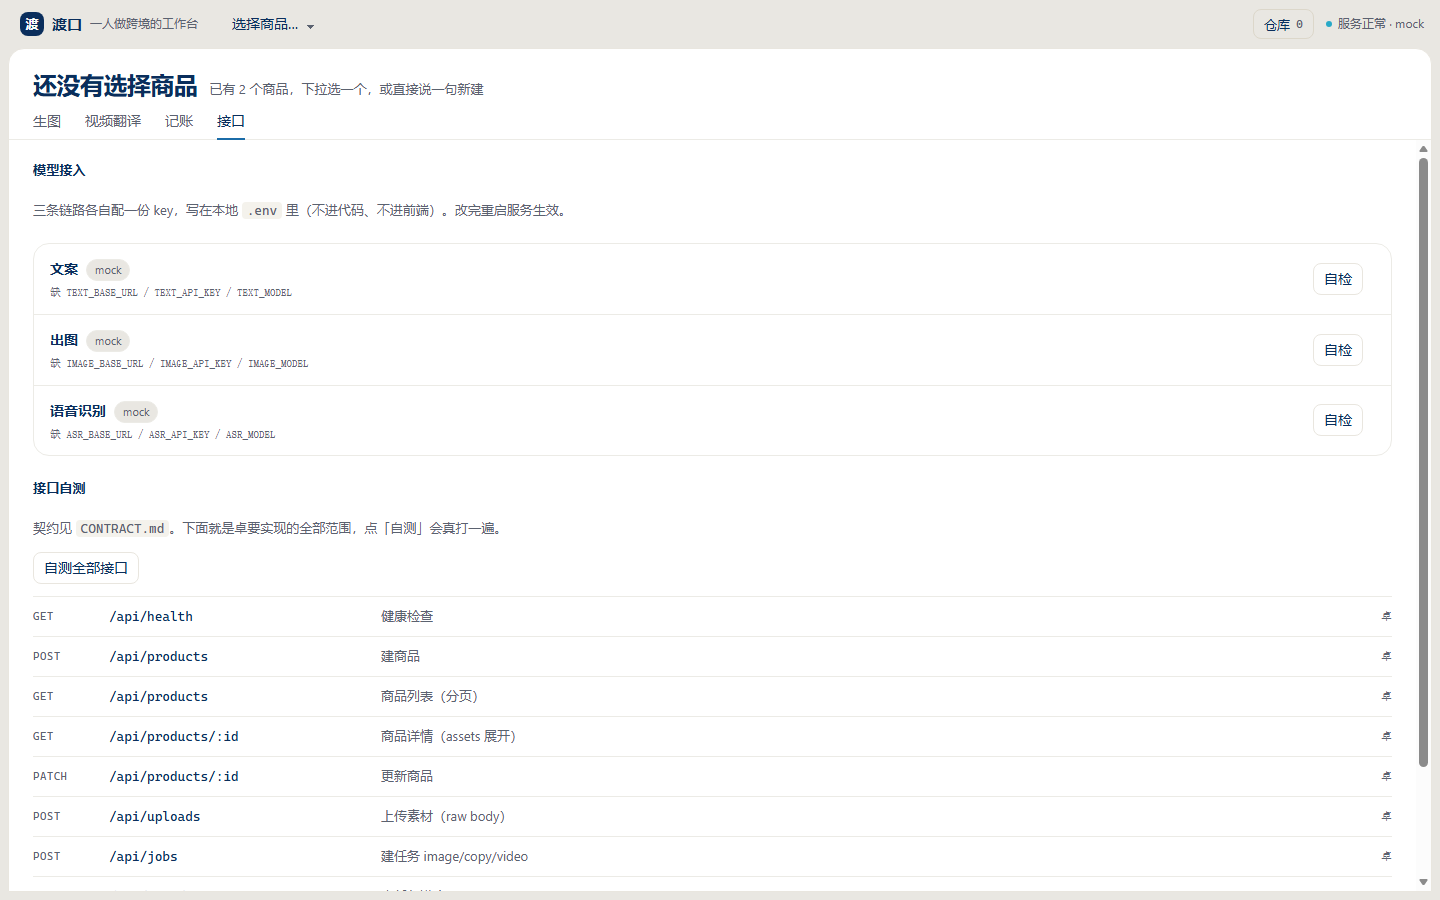
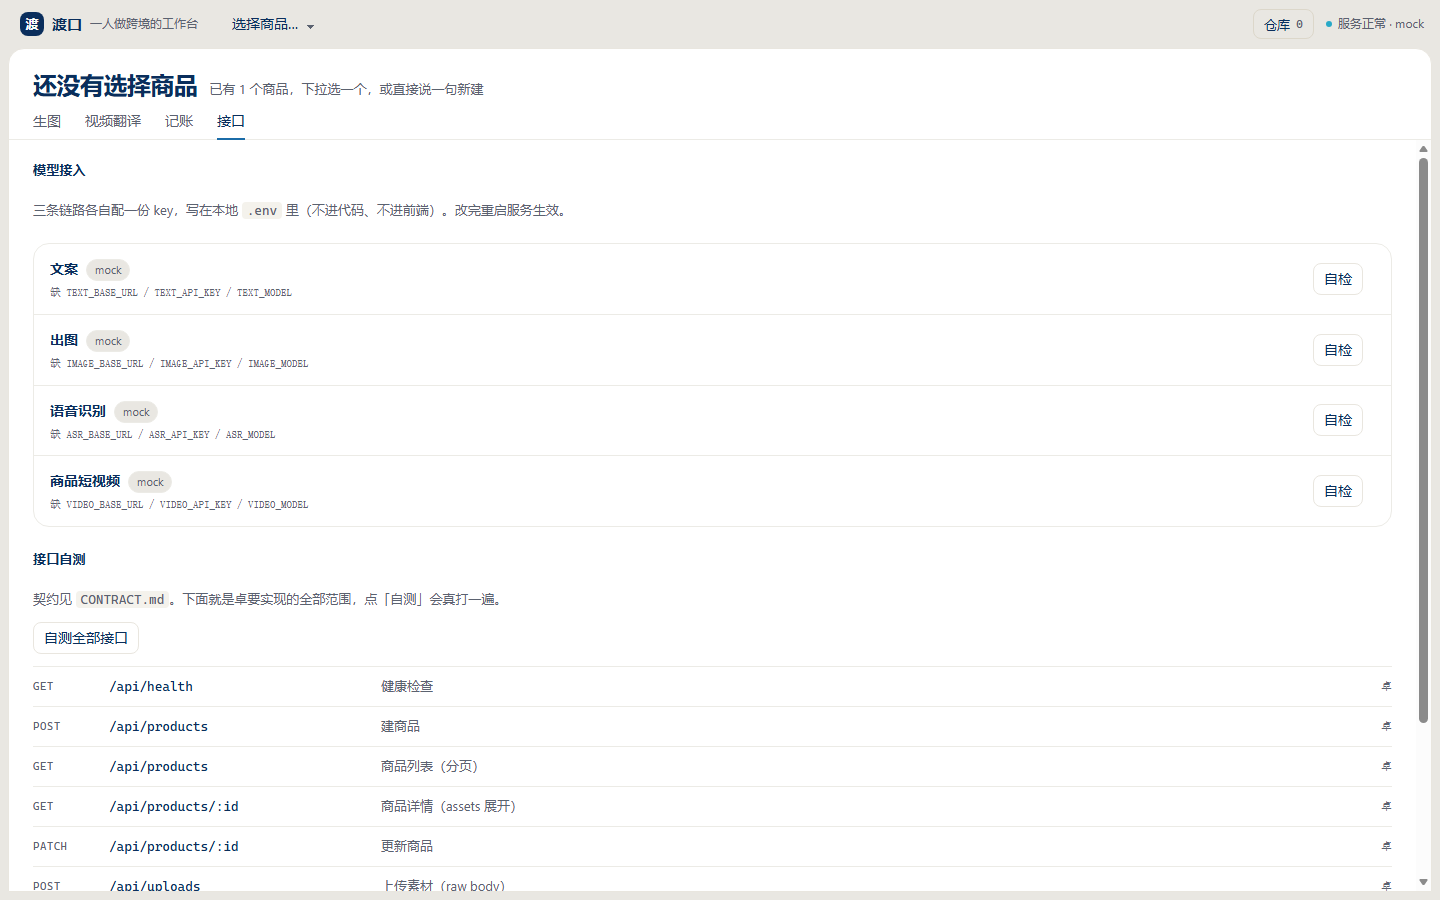
docs(clip): 接入页补短视频一行，README/契约同步视频链路

diff --git a/web/index.html b/web/index.html
@@ -1,4 +1,4 @@
-<!doctype html>
+<!doctype html>
 <html lang="zh-CN">
 <head>
 <meta charset="utf-8">
@@ -135,7 +135,7 @@
   <!-- 接口：卓负责 -->
   <section class="panel hidden" data-panel="api">
     <h3 class="sub-h">模型接入</h3>
-    <p class="note">三条链路各自配一份 key，写在本地 <code>.env</code> 里（不进代码、不进前端）。改完重启服务生效。</p>
+    <p class="note">四条链路各自配一份 key，写在本地 <code>.env</code> 里（不进代码、不进前端）。改完重启服务生效。</p>
     <ul id="providers" class="providers"></ul>
 
     <h3 class="sub-h">接口自测</h3>

diff --git a/web/app.js b/web/app.js
@@ -871,7 +871,7 @@ function esc(s) {
 
 /* ---------------- 模型接入状态 ---------------- */
 
-const CAP_LABEL = { text: '文案', image: '出图', asr: '语音识别' };
+const CAP_LABEL = { text: '文案', image: '出图', asr: '语音识别', video: '商品短视频' };
 const CAP_HINT = {
   text: 'TEXT_BASE_URL / TEXT_API_KEY / TEXT_MODEL',
   image: 'IMAGE_BASE_URL / IMAGE_API_KEY / IMAGE_MODEL',
